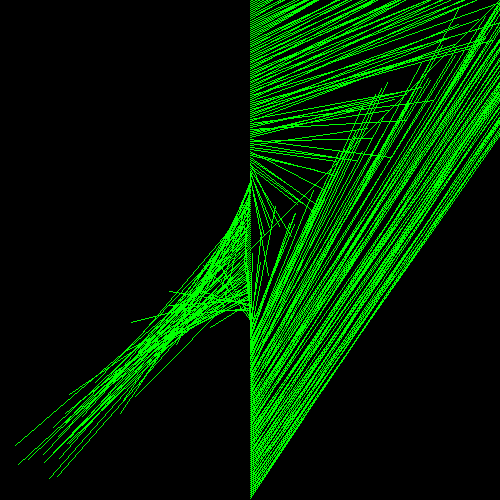
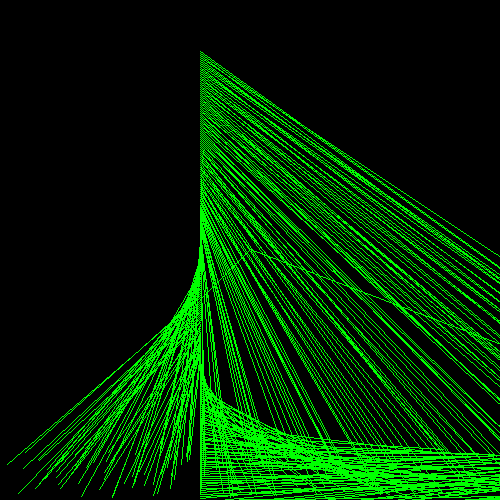
3

Changed region(s): [[0.03, 0.0, 1.0, 1.0]]

diff --git a/main.py b/main.py
@@ -35,9 +35,9 @@ clear_screen(screen)
 matrix = new_matrix(0)
 x, y, z = 250, 250, 1
 for i in range(250):
-	add_edge(matrix, x, y, z, int( i * math.sin(i*math.pi)) + 250, int( i * math.cos(i*math.pi)) + 250 , 1)
+	add_edge(matrix, x, y, z, int( i * math.sin(i*math.pi)) + 200, int( i * math.cos(i*math.pi)) + 200 , 1)
 	x = int( i*math.pi ) + random.randrange(50)
-	y = int( i*math.pi ) + random.randrange(50)
+	y = int( i%math.pi ) + random.randrange(50)
 	z = 1
 add_edge(matrix, x, y, z, 250, 250, 1)
 draw_lines(matrix,screen,color)
